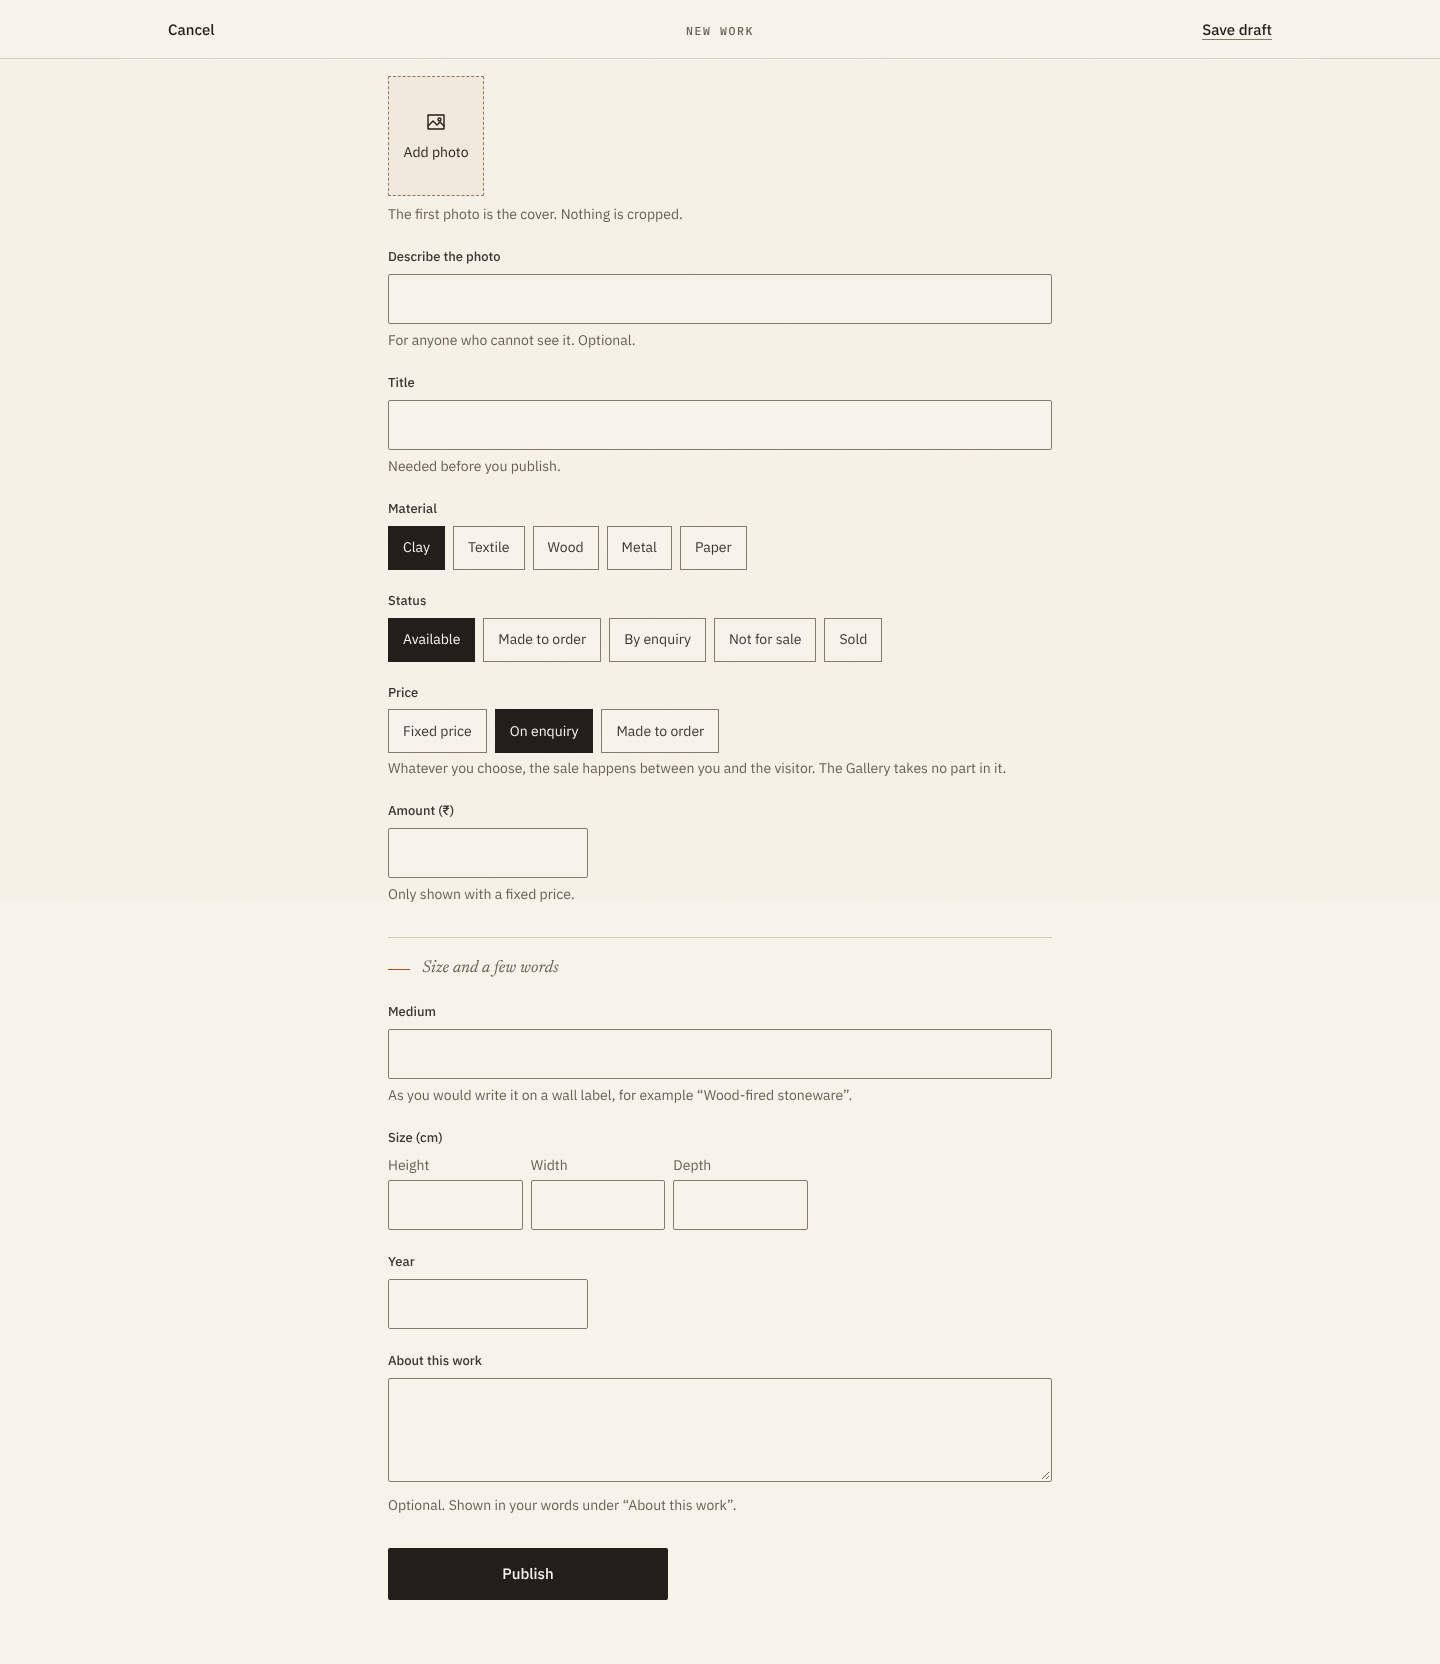
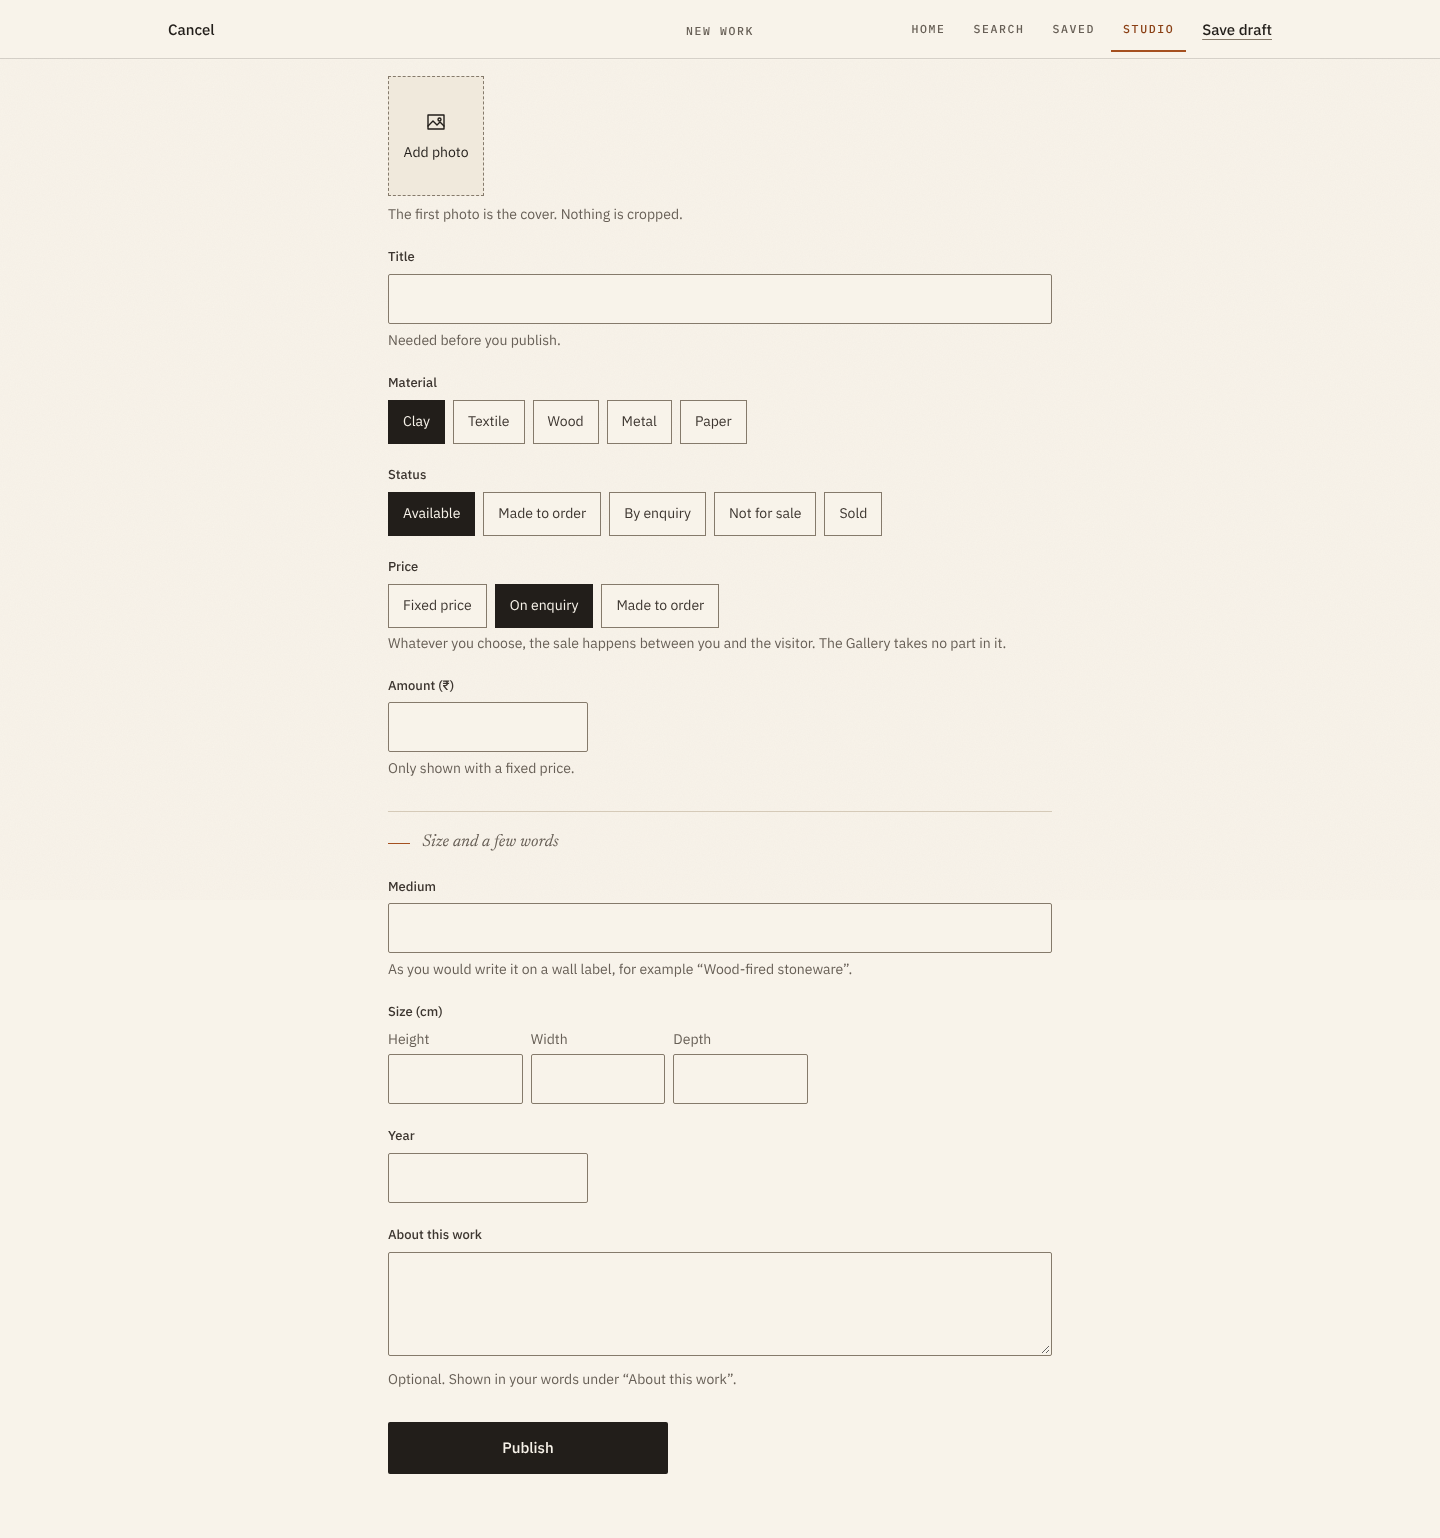
Part 3: receipt (suites pending), checklist, after renders on build UhdkxbzpibZovSIAXEp2u; ledger GAL-L0035 (forwarded confirmation link) and GAL-L0036 (colour read after a tap)
Claude-Session: https://claude.ai/code/session_01LviQGyGTN6v77YfmxEE5eL

diff --git a/doctrine/receipts/DRAWING-BOARD-PART3-2026-11-10.md b/doctrine/receipts/DRAWING-BOARD-PART3-2026-11-10.md
@@ -1,0 +1,83 @@
+# Receipt: drawing board, part 3 — the maker's screens (2026-11-10)
+
+**Authority:** governor:
+- 2026-11-09: "Approved." (the 16 screens)
+- 2026-11-10: "Merge PR 13, Keep, Show". "Show" means the Email row on the Message sheet shows the address. It lands in this PR.
+- 2026-11-10: "Yes." (go on part 3)
+
+Not a SYSTEM CHANGE. `tokens.css` and `system.css` are untouched and byte-identical to `ux/reference/interface/`. Page styling is in the "Drawing board, part 3" block of `public/gallery/app.css`.
+
+Code: branch `claude/continue-wfrmif`, head `beb2365`, final build `UhdkxbzpibZovSIAXEp2u`.
+
+## What changed
+| Screen | Before (live) | After (board 7–14) |
+|---|---|---|
+| For makers (7) | "Show your work the way a gallery would", a paragraph, an amber-edged action, three numbered steps (with "Make an account" looking like a button), a Participation line | Three pictures, then "FOR MAKERS", "A gallery of your own.", "Hang your work from your phone. Visitors message you on WhatsApp. No commission." "Open your gallery" docked in solid ink, with "I already have a gallery" under it. No bar. The pictures are covers of works that are on view; where there are fewer than three, the empty plinth stands in |
+| Join, step 1 (8) | "Create your account", a privacy paragraph, "Create account", "I already have an account" | Back · "STEP 1 OF 3". "Open your gallery": Email ("For signing in. Never shown."), Password ("At least 10 characters."), "Continue" docked |
+| Check your email (9) | A paragraph, "Send it again" as a full button, a spam hint, "Back to sign in" | The envelope in amber, "Check your email", "Tap the link we sent to …", "Send it again" as a text button. An expired link has its own state with "Sign in" |
+| The link | A page: "Your email is confirmed. Sign in…" | A route handler. It confirms the address and brings the maker, signed in, to step 2. This happens only in the browser that began joining (GAL-L0035) |
+| Join, step 2 (8) | "Set up your gallery": three numbered rows, then a long profile form (name, gallery address, how you work, city, practice, intro, commissions) | "STEP 2 OF 3", "Your name and place": Name, Place, and **How you work** as taps (On my own · A studio · A collective), with "Show only work you made or had a real hand in making. Not resale. Who can open a gallery". The gallery address is made from the name (`anika-rao`, then `anika-rao-2`) |
+| Join, step 3 (8) | — | "STEP 3 OF 3", "Your WhatsApp": one field ("With + and the country code. Shown to visitors."), "Continue" docked, "Skip for now" |
+| Sign in (10) | "Sign in to your Studio", the action in the form, "Forgot your password?", "New here? Create an account" | Back · wordmark. "Sign in", the two fields, "Forgot password?", "Sign in" docked |
+| Reset password (11) | "Get a link to reset your password", a paragraph, "Send the link" | "Reset password", Email ("We'll send a link if it has a gallery."), "Send link" docked. The second step is "New password", one field, "Set password" docked |
+| Studio (12) | "Studio" header, the name, a sentence about the gallery, a band "No way to contact you yet", a list of rows (thumb, title, material, chip), "Add a work" as a block button, three secondary links | "STUDIO" where the wordmark stands, Share (once the gallery is open) and "SETTINGS" at the right. The name, then the gallery's address. **One task** until it is done ("Your gallery is still a draft. Open it", or "Add WhatsApp so visitors can message you"). Then the works as a grid of 4:5 tiles with "Add a work" first, each flagged On view / Draft / Retired / Taken down, the title under it, and on a published work the status chip |
+| Add a work (13) | "Add a work" header, a paragraph, an images group with a file button, Describe the image, the label in groups, status as a select, "Save draft" in a bar | Cancel · "NEW WORK" · Save draft. A photo tile ("Add photo") first; its description is asked for once a photo is chosen. Title, then Material, Status and Price as taps, then the amount, then "Size and a few words". **Publish docked**: a photo and a title publish in one go. Enter saves a draft |
+| Settings (14) | Three pages reached by three links: Your details, Ways to contact you, Account | One list. "YOUR GALLERY": Name · Place · A line about your work · WhatsApp (On / Add) · Email for visitors (address / Off). "ACCOUNT": Sign-in email (shown, not a link) · Password → reset · Sign out · Close account. Each row opens the page where that thing is changed. Those pages stay, and their Back now leads to Settings |
+| Message sheet ("Show") | The Email row names the way only | The address sits under "Email". A screen reader hears "Email, address" |
+
+### Removed (rule 21)
+- **For makers:** the three numbered steps, the "Make an account" text that looked like a button, the paragraph, and the Participation line. Participation stays in the colophon.
+- **Joining:** the account page's privacy paragraph ("It stays private… add a separate public address"); the one line "For signing in. Never shown." carries it. "New here? Create an account" on Sign in. The "Your email is confirmed" page.
+- **Step 2:** the gallery-address field (it is made from the name, and changed later in Your details); practice, intro and commissions (they live behind "A line about your work" in Settings).
+- **Studio:** the list of rows with thumbnails and the material line; the "No way to contact you yet" band (it is now the one task); the block "Add a work" button; the three secondary links (now Settings). "Set up your gallery" with its numbered steps (an account without a gallery goes to step 2).
+- **Add a work:** the page's lead paragraph, the "Images · the first is the cover" heading, "Choose a photograph / No photograph chosen yet", and the status select (now taps).
+- **Account page:** Sign out (now a Settings row) and the repeated "Close this account" heading.
+- **Copy no longer said** because it was not proven: "It is good for 24 hours" and "Setting it signs out every other session".
+
+### Departures from the board, on purpose
+- **"How you work" on step 2.** The board draws name and place only. GAL-OD-02/03 is fixed: the self-declaration is made when the gallery is created, so it is asked here, as taps.
+- **The status chip under each published Studio tile.** The board draws bare tiles. J-003 changes status in one tap from the Studio, and that stays.
+- **Price taps beside status taps on Add a work.** The board draws only a price field. Decision C is still OPEN, so the price mode stays a choice of its own. "Made to order" appears in both groups (see Open).
+- **"Close account" in Settings.** The board's list stops at Sign out. Closing is a promised capability, so it has a row.
+- **The pictures on For makers are works on view, or the empty plinth.** Never the board's sample photographs (GAL-G4; a page never shows a work that is not hung).
+- **Step 2 and step 3 have no Back.** The account exists by then, and the next screen is the Studio.
+
+## Proof
+| Check | Result | Status |
+|---|---|---|
+| Phone suite, final build `UhdkxbzpibZovSIAXEp2u` (code `beb2365`) | PENDING | — |
+| Desktop suite, same build | PENDING | — |
+| Phone suite, build `j3qN_XCLgaQIn1ruyVFpI` (code `42cd0c0`, before the consistency fixes) | **98 passed, 1 skipped, exit 0** (27.3 min) | SEEN |
+| New tests fail without their change (rule 19) | Journey 13 was run against one planted defect at a time. Each failed at its own test: dock not pinned → test 1 (839 vs 736 px); address not made unique (build `_AipRqjuP6RVEuTW_Rqut`) → test 2; the link signs in any browser (`QvnldJZfpB4pQWohRvOcV`) → test 3, landed signed in on `/studio/join`; no task (`aw1_F4GNOxqqdz7Qzei72`) → test 4; the Studio as one column → test 5 (1 column, not ≥ 2); Publish only drafts (`NKNJoJ21ez8W4St_n7qGe`) → test 6; Settings rows without values (`xmeVbNbV3emn9himKObs1`) → test 7; the sheet without the address (`qpjNEWT4Cl9N1WnG5h6jJ`) → test 8 | SEEN |
+| Changed tests fail on the code before (rule 19) | The old code (`9a6277e`, build `rvSdl9_6wUHvd13DfeWgL`) with the new journeys 01, 08 and 11: 5 failed: the three-step join, recovery and session (01), the status taps (08), the bar off For makers (11). 9 passed, 10 did not run (serial) | SEEN |
+| Independent review (builder-reviewer agent; did not write the code) | No High. **M1** a forwarded confirmation link signed the opener into the sender's account: fixed (GAL-L0035) and tested. **M2** link scanners can spend the link (GET verifies): pre-existing behaviour, kept; the expired state now offers Sign in. **M3** the header's Save draft had no pending state; a double tap made two works; Enter: fixed (it disables while saving; Enter saves a draft) and tested. **M4** a retried Publish would create a second work: the buttons now disable; a server-side create key needs a schema change and is recorded. **L5** the self-declaration help was not tied to its group: fixed, plus a link to Participation. **L6** unproven copy: dropped. **L7** two "Made to order": decision C, open. **L8** a join race: fixed (constraint told apart; the gallery row ensured). **L9** the email in a URL: removed from Settings; check-email's `?e=` is pre-existing, kept. **L10** `safeNext` and tabs: fixed (parsed as a browser would). **L12** the sheet's name ran together: fixed. Kept: Cancel discards a typed draft without asking | SEEN |
+| Design consistency (`ui-consistency:verifying`, separate agent) | Calibrated first on a copy with one planted inline colour and size. It found it **by reading** (line 16), not by diffing. Real findings fixed: the editor header is `StudioHeader` (it had lost the four places from 900 px), `Icon` and `Field` used instead of hand-written ones, Settings names itself. Recorded: spacing literals off the scale, the same drift parts 1–2 have; step 2 and 3 have no Back, on purpose | SEEN |
+| axe (WCAG 2.1 A/AA + best practice, axe-core 4.10.2), final build | **0 violations** on 15 states × phone and desktop: For makers, step 1, check email, expired link, sign in, reset, new password, Studio, its status sheet, Settings, WhatsApp, Add a work, Your details, Close account; plus step 2 (phone) | SEEN |
+| Reflow at 320 px | No sideways scroll on all 13 pages | SEEN |
+| Keyboard | For makers: Skip → wordmark → Open your gallery → I already have a gallery → colophon. Step 1: Skip → Back → Email → Password → Continue. Studio: Skip → Share → Settings → address → Add a work → each work → its chip → the bar. Settings: Skip → Back → every row → Sign out → Close account. Add a work: Skip → Cancel → Save draft → Add photo → Title → the taps → the rest. Every stop shows a focus ring | SEEN |
+| Renders | `drawing-board-part3/before/` (build `FXzLGSv4tXyA-oGvsbO9V`, part 2 code; the empty Studio included) and `after/` (final build; Pixel 7 and 1440 desktop; step 2 for a new account, step 3, the expired link and the status sheet included) | SEEN |
+| Byte identity, system and reference | Journey 11 asserts it in the suites above | SEEN in the suites |
+| Design skills | `ui-consistency:finding-patterns` (the checklist, `drawing-board-part3/CHECKLIST.md`), `design-skills:design-critique` (below), `ui-consistency:verifying` (above) | SEEN |
+| Repository gates | 5 of 5 green | SEEN |
+
+## Design critique (design-skills:design-critique), against board screens 7–14 and the references
+References: Shopify and Linktree onboarding (one question per screen, chips, progress, Skip), the Instagram profile grid (the Studio), Cosmos (an intro that is only images), and the foundation (`ux/INTERFACE_FOUNDATION.md`).
+- **First impression:** each maker screen now does one thing, and its one action sits at the thumb. For makers is pictures, then a three-line promise, then the button. That is Cosmos's intro and the board's screen 7, where before it was a paragraph and a list. Joining is three short screens with "STEP n OF 3" (goal gradient), like Shopify and Linktree, instead of an account page followed by a long form.
+- **Usability:**
+  - 🟢 Fixed: Add a work put "Describe the photo" between the photos and the title. It now appears once a photo is chosen.
+  - 🟡 For makers with fewer than three works on view shows plinths in the empty slots. On the live site today (no work yet) all three are plinths. This is honest, but it is a weaker first picture than the board's. It improves with the first three makers.
+  - 🟡 "Made to order" appears twice on Add a work, once as a status and once as a price. Decision C.
+  - 🟢 Cancel on Add a work leaves without asking. Low cost: nothing is published, and the draft is not yet saved.
+- **Hierarchy:** headings in the heading serif, labels in mono capitals, help in small sans, the one docked solid action. The Studio's first thing after the name is the one missing step, then the work.
+- **Consistency:** the docked bar is the work page's Message bar. The taps are one control (`Segmented`, `pick`) wherever a choice is closed. Settings rows are the sheet's and About's hairline rows.
+- **Accessibility:** taps are real radios in a fieldset with its legend and description. The hidden file input shows its focus on the tile. Every control is 44 px or more.
+
+## Open, for the governor
+- **Decision C**, now visible: "Made to order" sits in both Status and Price on Add a work.
+- The confirmation link is still used up by a GET, so an email scanner that opens links can spend it. This is pre-existing. A "Continue" tap before confirming would stop it, at the cost of one tap.
+- A server-side key for "create a work", so a retried request cannot create a second work. Needs a schema change.
+
+## Not seen
+- The live result (after merge).
+- A real email round trip: the test project writes links to an outbox (helpers `linkFromOutbox`).
+- Real devices; the phone walk follows this PR.

diff --git a/doctrine/BUILD_LEARNING_LEDGER.md b/doctrine/BUILD_LEARNING_LEDGER.md
@@ -739,6 +739,58 @@ A subset run reads as red for reasons unrelated to the change, and it invites a 
 
 ---
 
+### GAL-L0035
+
+**Date:** 2026-11-10  
+**Observed event:**  
+Part 3 moved email confirmation from a page into a route handler, so the link could write the session cookies and bring the maker straight to step 2 (drawing board, screen 9). That made the link a sign-in token for whoever opened it. Someone could sign up with their own address and forward the link to a maker. The maker would land on "Your name and place", signed in as the sender, and put their name, place, WhatsApp number and work into an account the sender controls. The old page could not sign anyone in (a server component cannot set cookies), so the risk arrived with the improvement. The independent review found it (finding 1) before any run.
+
+**Evidence:**  
+- `doctrine/receipts/DRAWING-BOARD-PART3-2026-11-10.md`.
+- A control build with the guard removed (`QvnldJZfpB4pQWohRvOcV`). Journey 13, "a confirmation link opened in another browser…", failed with: expected `/makers/sign-in?confirmed=1`, received `/studio/join`. The other browser was signed in.
+- The same test passes on the final build.
+
+**Why it mattered:**  
+It would have let a stranger collect a maker's details and art under an account the maker does not own. It would also have swapped an existing session without any sign.
+
+**What changed:**  
+- The browser that starts joining carries a mark of the address it used: a SHA-256 hash, httpOnly, 3 days. The link signs in only a browser whose mark matches.
+- In any other browser, the link confirms the address and drops the new session by cookie name. Then it asks for a sign-in ("Email confirmed").
+- Practice: when a change gives an existing token new power (here, setting a session), the review asks who else can hold that token.
+
+**Status:** RESOLVED  
+**Related finding / decision IDs:** drawing board part 3; GAL-12; GAL-A1  
+**Harvest status:** UNHARVESTED
+
+---
+
+### GAL-L0036
+
+**Date:** 2026-11-10  
+**Observed event:**  
+A new journey 13 check read the docked button's colour and got the hover colour, not solid ink. It failed twice before the cause was clear:
+- The first reading caught the 160 ms ease.
+- The second was a real hover: tapping "I already have a gallery" left the pointer where "Sign in" then appeared.
+
+The page was right. The test was measuring the pointer.
+
+**Evidence:**  
+- Journey 13 runs on 2026-11-10: `rgb(37, 32, 28)`, then `rgb(61, 54, 48)` (`--ink-soft`, the hover colour).
+- Passed after the pointer was moved away. The control with the dock unpinned still failed.
+
+**Why it mattered:**  
+A false red on a colour check invites changing the colour. In this project that is a system change.
+
+**What changed:**  
+- The helper moves the pointer away, then uses `toHaveCSS`, which retries through the transition.
+- Practice: a test that reads a colour after a tap moves the pointer first and retries.
+
+**Status:** RESOLVED  
+**Related finding / decision IDs:** drawing board part 3; GAL-L0025  
+**Harvest status:** UNHARVESTED
+
+---
+
 ## Ledger rules
 
 - Capture the event in the governed change that fixes or formally records it where feasible.

diff --git a/doctrine/receipts/drawing-board-part3/CHECKLIST.md b/doctrine/receipts/drawing-board-part3/CHECKLIST.md
@@ -1,0 +1,14 @@
+# Part 3 checklist (ui-consistency:finding-patterns, read 2026-11-10)
+
+Maker screens against the approved board (screens 7–14), built from the part 1–2 pieces.
+
+- [x] Docked action (Continue, Sign in, Send link, Set password, Publish, Open your gallery): `.workbar` + `.btn.solid` via `ActionForm dock`. No bar on these screens (`SectionNav.docked`). Settled by: the board, and part 2's Message bar (shared piece).
+- [x] Step header: the shared `Header` with `step` (and `back` on step 1). Board 8–9.
+- [x] Tap choices: the shared `Segmented` with `pick`, real radios in a fieldset; its help is the group's description. Board `.pick`.
+- [x] Studio wall: 2 columns of 4:5 tiles (3 from 600 px), a flag on each, "Add a work" first; the J-003 chip kept (fixed decision).
+- [x] Task row: one at a time, amber edge, paper-deep, chevron. Board `.task`.
+- [x] Settings: rows label · value · chevron; each opens the existing detail page. Board 14.
+- [x] Editor header: `StudioHeader` with `lead` (Cancel) and `end` (Save draft); the four places from 900 px.
+- [x] Errors: `ActionForm`'s band and field errors; inputs through `Field`.
+- [x] Colour, type and spacing through tokens; no colour literals. Spacing literals off the --s scale remain, as in parts 1–2 (recorded).
+- [x] Not copied from the board: its sample photographs (GAL-G4), its city wording (GAL-OD-04), rows that lead nowhere (correction 24).
